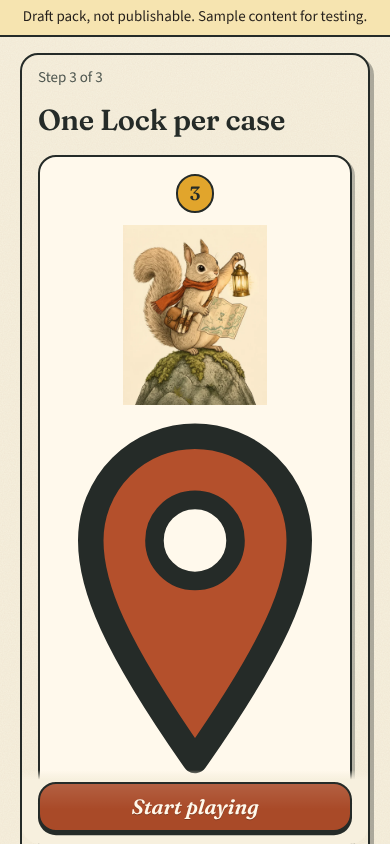
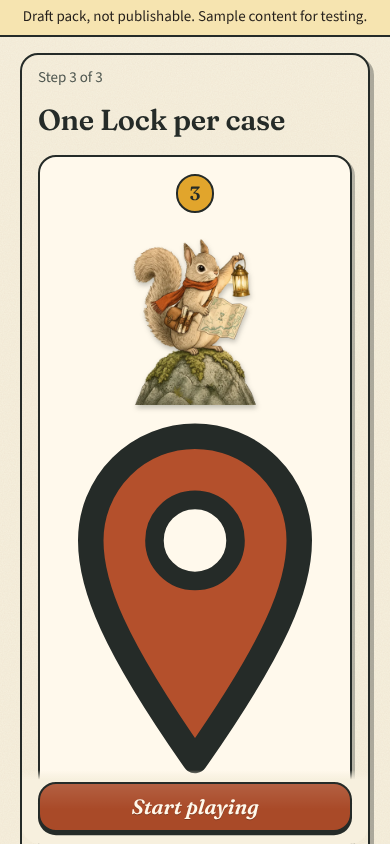
Use the transparent squirrel cutout; drop the multiply-blend workaround
Claude-Session: https://claude.ai/code/session_01FMdfxLbxSyrVaXBuTRDsdK

Changed region(s): [[0.3077, 0.2464, 0.7077, 0.4929]]

diff --git a/app/src/ui/app.js b/app/src/ui/app.js
@@ -94,7 +94,7 @@ function strip(v) {
   return `<div role="img" aria-label="${summary}"><ol class="strip" aria-hidden="true">${v.cases.map((c, i) => `<li ${i === v.cursor && v.status === 'active' ? 'class="now"' : ''}><span class="seg ${stKey(c.status)}"></span></li>`).join('')}</ol></div>`;
 }
 // The guide is the user's illustrated squirrel (assets/characters). One pose for now; art.js squirrel() remains as the fallback for other poses until more are supplied.
-const guide = (pose, cls = '', flip = false) => `<div class="guide ${cls}" aria-hidden="true"><img src="assets/characters/guide-lantern-map.webp" width="720" height="900" alt="" decoding="async"></div>`;
+const guide = (pose, cls = '', flip = false) => `<div class="guide ${cls}" aria-hidden="true"><img src="assets/characters/guide-lantern-map.webp?v=2" width="720" height="900" alt="" decoding="async"></div>`;
 const wordmark = () => `<p class="wordmark"><span class="hg" aria-hidden="true">${hourglass()}</span><span class="wm">${t('appName')}</span><span class="tag">${t('tagline')}</span></p>`;
 const banner = (label, pose = 'idle') => `<div class="banner" aria-hidden="true">${landscape()}<span class="ribbon">${label}</span>${guide(pose)}</div>`;
 const bar = (html, two = false) => `<div class="bar ${two ? 'two' : ''}">${html}</div>`;

diff --git a/app/atlas.css b/app/atlas.css
@@ -152,12 +152,12 @@ dialog{border:.1875rem solid var(--ink);border-radius:var(--r) var(--r) 0 0;back
 .wordmark .tag{max-width:100%}
 
 /* illustrated guide (raster). The art has a paper-cream background, so it is multiplied onto paper surfaces instead of cut out. */
-.guide img{display:block;width:100%;height:auto;mix-blend-mode:multiply}
+.guide img{display:block;width:100%;height:auto;filter:drop-shadow(.1rem .2rem .15rem rgba(37,43,40,.28))}
 .guide.big-guide{width:8.5rem;left:-.4rem;bottom:-.2rem}
 .homehero .guide.big-guide{width:8rem}
 .welcome .guide.big-guide{width:9.5rem}
 .banner .guide{right:.6rem;bottom:.5rem;width:4.6rem;height:4.6rem;border-radius:50%;overflow:hidden;border:.1875rem solid var(--ink);background:#F9F0DF;box-shadow:.15rem .15rem 0 rgba(37,43,40,.35)}
-.banner .guide img{width:150%;margin:-8% 0 0 -22%;mix-blend-mode:normal}
+.banner .guide img{width:150%;margin:-8% 0 0 -22%;filter:none}
 .result .guide{width:6rem;margin:.1rem -.4rem -1.2rem auto}
 .howstep .picture .guide{width:9rem}
 

diff --git a/docs/atlas/ASSET_RIGHTS.md b/docs/atlas/ASSET_RIGHTS.md
@@ -2,4 +2,4 @@
 
 | File | Source | Tool and model | Date | Prompt and references | Owner and licence | Commercial use confirmed | Status |
 |---|---|---|---|---|---|---|---|
-| `app/assets/characters/guide-master.webp` and `guide-lantern-map.webp` | Supplied by the user | Not stated (the user supplied the file; a first version was also generated with a Canva image generator on 2026-11-24) | 2026-11-24 | Not recorded | **Unknown** | **No** | **BLOCKS RELEASE until filled in** |
+| `app/assets/characters/guide-master.webp` and `guide-lantern-map.webp` (transparent cutout) | Supplied by the user | Not stated (the user supplied the file; a first version was also generated with a Canva image generator on 2026-11-24) | 2026-11-24 | Not recorded | **Unknown** | **No** | **BLOCKS RELEASE until filled in** |
